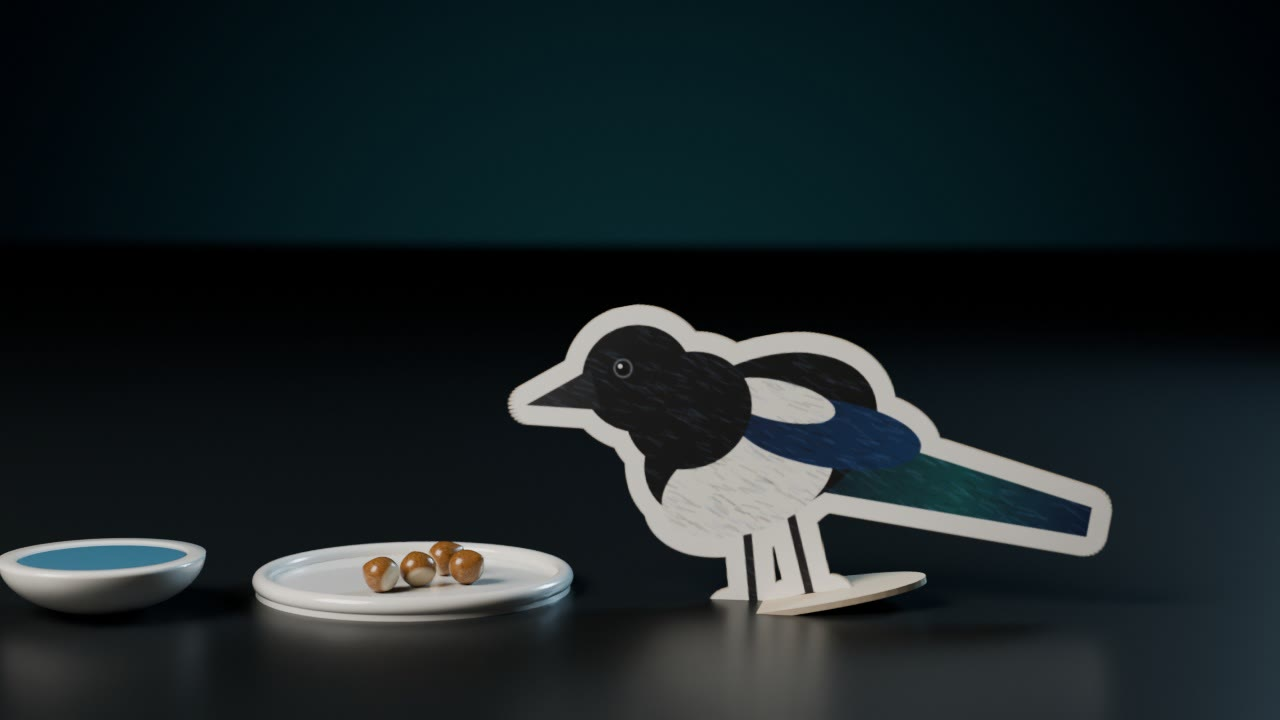
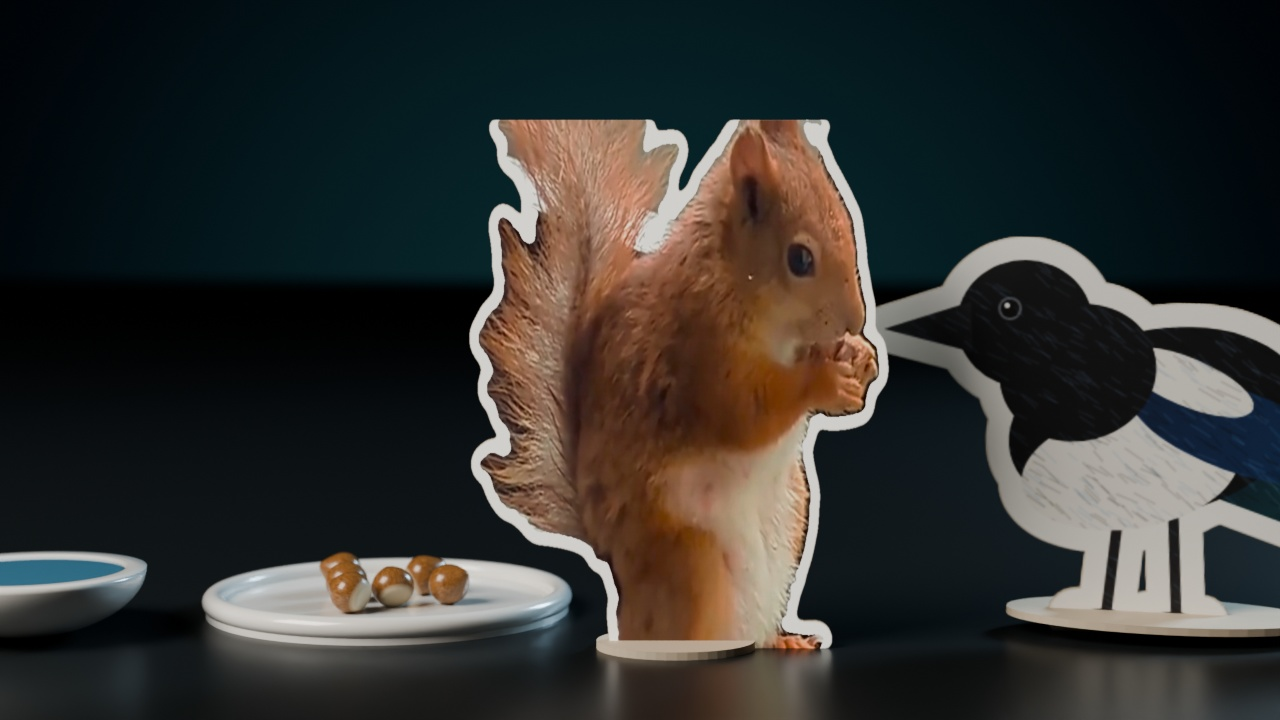
Trailern: Lennart stansas ut och blir kartongfigur, inga sus kvar
Övergången 1.4 -> 2.1 är ny. Bilden fryser, Lennart stansas ut med vit
kant och bakgrunden faller bort. Han står kvar som kartongfigur i 3D,
vänder sig när skatan kommer och hoppar undan bakom fatet. De sista
susen i ljudmixen är borttagna.

diff --git a/trailer/storyboard/storyboard.html b/trailer/storyboard/storyboard.html
@@ -133,7 +133,7 @@ td:first-child { color: var(--fg); white-space: nowrap; font-family: var(--mono)
 <div class="wrap">
 
 <header class="top">
-  <div class="eyebrow">Storyboard v12 · övergångar mellan scenerna</div>
+  <div class="eyebrow">Storyboard v13 · Lennart blir kartongfigur</div>
   <h1>Projekt <span>Lennart</span></h1>
   <p class="lead">En helt orimlig mängd teknik, redovisad med fullt allvar, för att en ekorre ska få äta sin nöt i fred.</p>
   <div class="facts">
@@ -394,10 +394,10 @@ const ACTS = [
   ['1.1','0:20','5,5 s','Balkongen i juli','a1_1','real','Etablera platsen och den nya grannen.','Uteplatsen en sommardag. Lennart springer längs räcket.','Mobilfilm beskuren till liggande. Svag inzoomning.','Mulet dagsljus.','Lennart rör sig längs räcket.','Rakt klipp i röstens paus.','"Men lite bakgrund först. I somras började en ekorre hälsa på hemma hos oss."','Sommarljud, lätt musik börjar.','PXL_20260702'],
   ['1.2','0:26','5 s','Nästan varje dag','a1_2','real','Visa att besöken blev vardag.','Tre stående rutor som dyker upp en i taget: soffryggen, knät, golvet.','Tre mobilklipp i höjdformat sida vid sida.','Blandat inomhusljus.','En ruta på "då och då", två till på "nästan varje dag".','Rakt klipp till närbilden.','"Först bara då och då, men numera dyker han upp nästan varje dag."','Ett mjukt klick per ruta.','PXL_20260708, 1000007512, VID-20261114'],
   ['1.3','0:31','3 s','Namnet','a1_3','real','Ge honom ett namn och ett ansikte.','Extrem närbild: han nosar på kameran. Namnskylt i skärmens stil.','Beskuren närbild med svag inzoomning.','Dagsljus från fönster.','Skylten tänds på "Lennart".','Rakt klipp.','"Vi gav honom namnet Lennart."','Ett klingande ljud när skylten tänds.','PXL_20260708 + grafik'],
-  ['1.4','0:34','8 s','Nötter och vatten','a1_4','real','Visa omsorgen. Sätta upp fatet som fåglarna snart tömmer.','Han sitter på någons ben och äter.','Beskuren till liggande, svag inzoomning.','Mjukt inomhusljus.','Han äter.','Bilden fryser och zoomar in på nöten i tassarna. Matchklipp till en 3D-hasselnöt på samma plats i bilden, som 2.1 backar ut från.','"Redan från första besöket har vi bjudit på nötter, och sen dess står det alltid käk och vatten utanför."','Knaprande.','1000007512'],
+  ['1.4','0:34','8 s','Nötter och vatten','a1_4','real','Visa omsorgen. Sätta upp fatet som fåglarna snart tömmer.','Han sitter på någons ben och äter.','Beskuren till liggande, svag inzoomning.','Mjukt inomhusljus.','Han äter.','Bilden fryser och Lennart stansas ut med en vit kant, som en dekal. Bakgrunden tippar bakåt och faller ur bild, och kvar står han som kartongfigur i den mörka 3D-scenen. Där börjar 2.1.','"Redan från första besöket har vi bjudit på nötter, och sen dess står det alltid käk och vatten utanför."','Knaprande.','1000007512'],
  ]],
  ['2 · Problemet och planen', '0:42–1:27', 'Ny version, v3: utan hus, med kamera i sladd och nötter som poppar upp. Arbetsröst fram till nejet. Den nya ja-repliken saknar röst.', [
-  ['2.1','0:42','5 s','Fåglarna','n1','cg','Berätta problemet i samma värld som lösningen.','En mörk scen. Ett vitt fat med hasselnötter, samma nötter som i husets magasin, och en skål med vatten bredvid. Skatan, en utstansad kartongfigur på fot, hoppar fram och tömmer fatet i tre hack.','Nära fatet, låg vinkel, långsam inåkning.','Varm nyckel från vänster, kall kant från höger, mot petroleumblå bakgrund.','Skatan hoppar in i tre hopp, pickar tre gånger, vänder som ett kort och hoppar ut.','Lennart hoppar in från samma håll.','"Problemet är bara att fåglarna också har upptäckt vår lilla uteservering,"','Lätta hopp, som kartong mot bord. Ett torrt ljud per nöt.','3D: dekalerna som kartongfigurer, hasselnötterna från öppningen'],
+  ['2.1','0:42','5 s','Fåglarna','n1','cg','Berätta problemet i samma värld som lösningen.','En mörk scen. Ett vitt fat med hasselnötter, samma nötter som i husets magasin, och en skål med vatten bredvid. Skatan, en utstansad kartongfigur på fot, hoppar fram och tömmer fatet i tre hack.','Börjar rakt framför den utstansade Lennart och glider bakåt till helbilden.','Varm nyckel från vänster, kall kant från höger, mot petroleumblå bakgrund.','Lennart, utstansad ur filmen, står vid fatet. Skatan hoppar in, Lennart vänder sig som ett kort och blir den ritade figuren, och hoppar undan bakom fatet. Skatan pickar tre gånger, vänder och hoppar ut.','Lennart hoppar in från samma håll.','"Problemet är bara att fåglarna också har upptäckt vår lilla uteservering,"','Lätta hopp, som kartong mot bord. Ett torrt ljud per nöt.','3D: dekalerna som kartongfigurer, hasselnötterna från öppningen'],
   ['2.2','0:47','5 s','Den länsade buffén','n2','cg','Stillheten efter.','Lennart, som kartongfigur, framför ett tomt fat och en skål med vatten. Han lutar sig fram, tittar, och sjunker ihop en aning.','Samma bild.','Samma ljus.','Tre hopp in, en lutning framåt, en liten suck bakåt.','Kameran börjar dra sig bakåt och uppåt.','"så ibland kommer stackars Lennart fram till en helt länsad buffé."','Tystnad. Ett litet ljud när han sjunker ihop.','3D'],
   ['2.3','0:52','10 s','Idén','n3','cg','Vändpunkten: från problem till plan.','Kameran backar till helbild. Fatet och vattenskålen ligger kvar. En liten kamera sänks ner i en sladd uppifrån, gungar till och blir hängande med linsen mot besökaren. Ett mjukt vitt moln växer fram uppe till höger. Lennart ser på.','Åkning bakåt och uppåt till en helbild som sedan ligger still.','Varm nyckel från vänster, kall kant från höger.','Kameran sänks på två sekunder och gungar ut. Molnet växer fram.','Lennart vänder och hoppar ut. Skatan hoppar in.','"Så ja, det är ju rätt uppenbart att vi har ett problem som behöver lösas. Jag tänkte: tänk om matstationen själv kunde se vem det är som kommer?"','Ett lätt gnissel när kameran sänks. En mjuk ton när molnet kommer.','3D. Kameran är en enkel, neutral kamera. Den riktiga kameramodulen presenteras i inköpen.'],
   ['2.4','1:02','11 s','Frågan till molnet','n4','cg','Förklara det enda systemet egentligen gör.','Skatan vid fatet. Kameran blixtrar. Bilden den tog flyger upp till molnet som ett litet lysande kort med en ljusstrimma efter sig. Molnet börjar pulsera i gult och en skylt fälls ut framför det: ÄR DET EN EKORRE?','Stilla helbild. Kameran till vänster, molnet uppe till höger, besökaren och fatet mellan dem.','Molnet lyser inifrån och färgar scenen svagt.','Blixt, bildkortet färdas, molnet pulserar, skylten poppar fram.','Molnet slår om till rött.','"Tanken är enkel. När någon kommer fram tar kameran en bild och skickar den till en AI i molnet, som får svara på en enda fråga: är det här en ekorre?"','Ett slutarklick. Ett mjukt svep när signalen går. Tre pip.','3D. Molnet är byggt av mjuka klot med platt undersida.'],
@@ -432,8 +432,8 @@ const ACTS = [
 // nr -> kort notering om vilken version filmen är
 const FILM = {
  "0.1": "Ny version, v5: skärmen har synliga pixlar.", "0.2": "Ur öppning v2, godkänd bild. Din provinspelning som röst.", "0.3": "Ny version, v5: magasinet fullt, tilt ner i slutet.", "0.4": "Ny version, v5: övergångar in och ut.", "0.5": "Ny version, v5: pixlar, punkter på pipen, inåkning i pixlarna.", "0.6": "Ny version: titeln i skärmens pixelrutnät.",
- "1.1": "Ur del 1 v1, klippt efter din inspelning.", "1.2": "Ur del 1 v1, klippt efter din inspelning.", "1.3": "Ur del 1 v3. Namnskylten kommer tidigare och ligger kvar in i nästa klipp.", "1.4": "Ur del 1, med frysning och inzoomning på nöten i slutet.",
- "2.1": "Ny version, v6: börjar tätt på en nöt.", "2.2": "Ur v3, oförändrad.", "2.3": "Ur v3, oförändrad.", "2.4": "Ur v3, oförändrad.", "2.5": "Ny version, v5: nej-signalen slår ner i fatet, som snurrar ut med ett porslinsklirr.", "2.6": "Ny version, v6: nötterna vilar, kameran lyfter i slutet.",
+ "1.1": "Ur del 1 v1, klippt efter din inspelning.", "1.2": "Ur del 1 v1, klippt efter din inspelning.", "1.3": "Ur del 1 v3. Namnskylten kommer tidigare och ligger kvar in i nästa klipp.", "1.4": "Ur del 1. Ny övergång i slutet: Lennart stansas ut ur bilden och bakgrunden faller bort.",
+ "2.1": "Ny version, v7: börjar på den utstansade Lennart, som vänder sig och hoppar undan för skatan.", "2.2": "Ur v3, oförändrad.", "2.3": "Ur v3, oförändrad.", "2.4": "Ur v3, oförändrad.", "2.5": "Ny version, v5: nej-signalen slår ner i fatet, som snurrar ut med ett porslinsklirr.", "2.6": "Ny version, v6: nötterna vilar, kameran lyfter i slutet.",
  "6.1": "Första renderingen, v1.", "6.2": "Första renderingen, v1.", "6.3": "Första renderingen, v1.", "3.1": "Ny version, v5: börjar uppifrån mörkret.", "3.2": "Ny version, v4: snabb panorering i slutet.",
  "4.1": "Ny version, v5: landar ur panoreringen.", "4.2": "Ny version, v5: in i rullens nav i slutet.", "5.2": "Platshållare: utskriftsväggen med dina tre stillbilder.", "5.3": "Platshållare: utskriftsväggen med dina tre stillbilder."
 };

diff --git a/trailer/film/akt_plan.py b/trailer/film/akt_plan.py
@@ -91,6 +91,34 @@ def standee(name, png, h, sink):
     return e
 BIRD = standee('skata', 'dekal-skata.png', 0.3, 0.135); SQ = standee('lennart', 'dekal-lennart.png', 0.22, 0.085)
 
+# ---------- overgangen in fran 1.4: den riktiga Lennart, utstansad ur sista bildrutan (verktyg/utstansning.py), star som kartongfigur i scenen ----------
+# Kameran borjar vinkelratt mot figuren pa precis det avstand dar bilden fyller rutan, sa forsta bildrutan ar samma bild som sista rutan i 1.4.
+import numpy as np
+FOTO_H = 0.20; FOTO_W = FOTO_H * 16 / 9; FOTO_LINS = 60.0; FOTO_TID = dict(vand=1.2, hopp=1.45)
+_m = np.load(os.path.join(HERE, 'utstansning.npz'))['inre']; FOTO_U = float(np.nonzero(_m)[1].mean()) / _m.shape[1]   # ekorrens mitt i sidled, 0..1
+FOTO_D = Vector((0.31 - 0.47, -0.14 + 1.12, 0)).normalized()               # samma riktning som kamerans helbild
+FOTO_PHI = math.atan2(-FOTO_D.x, FOTO_D.y); FOTO_R = Vector((math.cos(FOTO_PHI), math.sin(FOTO_PHI), 0))
+FOTO_P = Vector((0.33, -0.2, GROUND))                                       # dar ekorren star (mitten av ekorren, pa golvet)
+FOTO_MID = FOTO_P + FOTO_R * ((0.5 - FOTO_U) * FOTO_W) + Vector((0, 0, FOTO_H / 2))   # mitten av bilden
+FOTO_EYE = FOTO_MID - FOTO_D * (FOTO_W * FOTO_LINS / 36.0)
+def foto_figur(name, png, w, h, uc, sq_h):
+    e = link(bpy.data.objects.new(name, None)); img = bpy.data.images.load(os.path.join(HERE, png))
+    def layer_mat(front):
+        m = bpy.data.materials.new(name + ('_f' if front else '_k')); m.use_nodes = True; n2 = m.node_tree; p = n2.nodes['Principled BSDF']; t = n2.nodes.new('ShaderNodeTexImage'); t.image = img; t.extension = 'CLIP'
+        n2.links.new(t.outputs['Alpha'], p.inputs['Alpha']); p.inputs['Roughness'].default_value = 0.55
+        if front: n2.links.new(t.outputs['Color'], p.inputs['Base Color']); n2.links.new(t.outputs['Color'], p.inputs['Emission Color']); p.inputs['Emission Strength'].default_value = FOTO_EMIT
+        else: p.inputs['Base Color'].default_value = (0.62, 0.52, 0.4, 1)
+        return m
+    mf, mk = layer_mat(True), layer_mat(False)
+    for i in range(6):
+        me = bpy.data.meshes.new('fq'); x0 = -uc * w; me.from_pydata([(x0, 0, 0), (x0 + w, 0, 0), (x0 + w, 0, h), (x0, 0, h)], [], [(0, 1, 2, 3)]); me.uv_layers.new()
+        for j, c in enumerate([(0, 0), (1, 0), (1, 1), (0, 1)]): me.uv_layers[0].data[j].uv = c
+        me.materials.append(mf if i == 0 else mk); o = link(bpy.data.objects.new(name + str(i), me)); o.location = (0, 0.0006 * i, 0); o.parent = e
+    bpy.ops.mesh.primitive_cylinder_add(vertices=48, radius=1, depth=1, location=(0, 0.0015, 0.0015)); b = bpy.context.active_object; b.scale = (sq_h * 0.2, sq_h * 0.11, 0.003); b.data.materials.append(mat(name + '_fot', (0.62, 0.52, 0.4), 0.7)); b.parent = e
+    return e
+FOTO_EMIT = 0.6
+FOTO = foto_figur('lennart_foto', 'lennart-utstansad.png', FOTO_W, FOTO_H, FOTO_U, 0.22)
+
 # ---------- fatet och hasselnotterna ----------
 PLATE = link(bpy.data.objects.new('fat', None)); PLATE.location = (0.2, -0.14, GROUND); cer = mat('porslin', (0.86, 0.85, 0.82), 0.25, coat=0.6)
 bpy.ops.mesh.primitive_cylinder_add(vertices=96, radius=0.075, depth=0.005, location=(0, 0, 0.0025)); o = bpy.context.active_object; o.data.materials.append(cer); o.parent = PLATE
@@ -239,6 +267,17 @@ def state(t):
         x, z, ln_ = hops(t, T['sq2_in'], [0.98, 0.78, 0.6, 0.44]); face = 1
         if t >= T['sq_bowl']: x, z, ln_ = hops(t, T['sq_bowl'], [0.44, 0.39, 0.345], 0.3, 0.06, 0.035); ln_ += -0.16 * sm(t, T['sq_bowl'] + 0.8, T['sq_bowl'] + 1.3)
     place(SQ, x, -0.14, z, ln_, face)
+    # i borjan: den utstansade Lennart star vid fatet, ser skatan komma, vander sig (bilden blir den ritade figuren) och hoppar undan at vanster
+    v0, h0 = FOTO_TID['vand'], FOTO_TID['hopp']; c_ = math.cos(math.pi * sm(t, v0, v0 + 0.24))
+    FOTO.location = FOTO_P; FOTO.rotation_euler = (0, 0.05 * pulse(t, 0.88, 0.34), FOTO_PHI); FOTO.scale = (max(c_, 0.0), 1, 1)
+    for o_ in [FOTO] + list(FOTO.children): o_.hide_render = c_ <= 0 or t > h0
+    if t < h0 + 1.1:
+        pts = [FOTO_P, Vector((0.24, -0.06, GROUND)), Vector((0.08, -0.04, GROUND)), Vector((-0.2, -0.03, GROUND))]   # bakom fatet och skalen, ut till vanster
+        k_, z, ln_ = hops(t, h0, [0.0, 1.0, 2.0, 3.0], 0.3, 0.05); i_ = min(int(k_), 2); p_ = pts[i_].lerp(pts[i_ + 1], k_ - i_)
+        place(SQ, p_.x, p_.y, z, -ln_, max(-c_, 0.0)); SQ.rotation_euler.z = FOTO_PHI * (1 - sm(t, h0, h0 + 0.5))
+        for o_ in [SQ] + list(SQ.children): o_.hide_render = c_ > 0
+    else:
+        for o_ in [SQ] + list(SQ.children): o_.hide_render = False
     # molnet, fragan och signalen
     think = (T['up1'][1] - 0.15 <= t < T['no']) or (T['up2'][1] - 0.15 <= t < T['yes'])
     if t >= T['yes']: col, es = (0.25, 0.95, 0.5), 0.35 + 1.0 * (1 - sm(t, T['yes'], T['yes'] + 1.5)) + 0.25
@@ -273,14 +312,14 @@ def state(t):
     wide = sm(t, 9.8, 15.6); close = sm(t, 40.3, END - 0.2)
     eye = mix(mix((0.47, -1.12, 0.16), (0.32, -1.52, 0.27), wide), (0.31, -0.84, 0.2), close) + Vector((0.05 * t / END, 0, 0))
     tgt = mix(mix((0.31, -0.14, 0.075), (0.24, -0.05, 0.165), wide), (0.27, -0.14, 0.06), close)
-    # overgang in: matchklipp pa notten. Kameran borjar 14 cm fran den framsta notten (som fyller ungefar en femtedel av bildbredden, som tassarna i 1.4) och backar ut
-    if t < 1.9:
-        nut = Vector((NUT_REST[5][0], NUT_REST[5][1], GROUND + NUT_REST[5][3])); pb = sm(t, 0.0, 1.9); dv = eye - nut; d_ = 0.14 * (dv.length / 0.14) ** pb
-        eye = nut + dv.normalized() * d_; tgt = mix(nut, tgt, pb)
+    # overgang in: kameran borjar vinkelratt mot den utstansade Lennart (bilden fyller rutan som i 1.4) och glider ut till helbilden
+    fok = None
+    if t < 2.2:
+        pb = sm(t, 0.0, 2.2); eye = mix(FOTO_EYE, eye, pb); tgt = mix(FOTO_MID, tgt, pb); fok = mix(FOTO_MID, tgt, sm(t, 1.2, 2.2))
     # overgang ut: kameran lyfter och tittar upp forbi molnet, ut i det tomma morkret (3.1 fortsatter nerat mot Claude-fonstret)
     up = sm(t, END - 1.35, END) ** 1.4; tgt0 = tgt.copy()     # skarpan stannar pa fatet medan kameran tittar upp
     if up > 0: eye = eye + Vector((0, -0.08, 0.22)) * up; tgt = tgt + Vector((0.1, 0.25, 1.1)) * up
-    CAM.location = eye; CAM.rotation_euler = (tgt - eye).to_track_quat('-Z', 'Y').to_euler(); cam_d.lens = 60 - 5 * wide; cam_d.dof.aperture_fstop = 5.6; cam_d.dof.focus_distance = (tgt0 - eye).length
+    CAM.location = eye; CAM.rotation_euler = (tgt - eye).to_track_quat('-Z', 'Y').to_euler(); cam_d.lens = 60 - 5 * wide; cam_d.dof.aperture_fstop = 5.6; cam_d.dof.focus_distance = ((fok if fok is not None else tgt0) - eye).length
 
 frames = sorted({round(t * FPS) for t in TIMES}) if TIMES else range(int(END * FPS))
 for f in frames:

diff --git a/trailer/film/verktyg/utstansning.py b/trailer/film/verktyg/utstansning.py
@@ -1,0 +1,55 @@
+# Stansar ut Lennart ur sista bildrutan i klipp 1.4, som en dekal med vit kant.
+# Ger film/lennart-utstansad.png (RGBA, 1280x720) som anvands som kartongfigur i akt_plan.py, och masker till overgangen (overgang_14.py).
+# Kor med Blenders python (har numpy):  python utstansning.py [bildruta]
+import os, sys, subprocess, numpy as np
+HERE = os.path.dirname(os.path.abspath(__file__)); FILM = os.path.dirname(HERE)
+W, H = 1280, 720; RUTA = int(sys.argv[1]) if __name__ == '__main__' and len(sys.argv) > 1 else 184; KANT = 18
+
+def las(ruta):
+    r = subprocess.run(['ffmpeg', '-v', 'error', '-i', os.path.join(FILM, 'klipp_1_4_original.mp4'), '-vf', 'select=eq(n\\,%d),scale=%d:%d:flags=lanczos' % (ruta, W, H),
+                        '-frames:v', '1', '-f', 'rawvideo', '-pix_fmt', 'rgb24', '-'], capture_output=True, check=True)
+    return np.frombuffer(r.stdout, np.uint8).reshape(H, W, 3).astype(np.float32)
+
+def falt(m, k):   # faltning med FFT, samma storlek
+    pad = np.zeros((H + 2 * 64, W + 2 * 64), np.float32); pad[64:64 + H, 64:64 + W] = m
+    K = np.zeros_like(pad); kh, kw = k.shape; K[:kh, :kw] = k; K = np.roll(K, (-(kh // 2), -(kw // 2)), (0, 1))
+    return np.real(np.fft.irfft2(np.fft.rfft2(pad) * np.fft.rfft2(K), pad.shape))[64:64 + H, 64:64 + W]
+def skiva(r): y, x = np.mgrid[-r:r + 1, -r:r + 1]; return (x * x + y * y <= r * r).astype(np.float32)
+def gauss(s): r = int(3 * s); y, x = np.mgrid[-r:r + 1, -r:r + 1]; g = np.exp(-(x * x + y * y) / (2 * s * s)); return (g / g.sum()).astype(np.float32)
+def vidga(m, r): return falt(m.astype(np.float32), skiva(r)) > 0.5
+def krymp(m, r): return ~vidga(~m, r)
+def mjuk(m, s): return falt(m.astype(np.float32), gauss(s)) > 0.5
+def sammanhang(m, fro):   # allt i m som hanger ihop med fro (geodetisk utvidgning)
+    s = fro & m
+    while True:
+        n = m & (s | np.roll(s, 1, 0) | np.roll(s, -1, 0) | np.roll(s, 1, 1) | np.roll(s, -1, 1))
+        if (n == s).all(): return s
+        s = n
+
+def utstansa(img):
+    r, g, b = img[..., 0], img[..., 1], img[..., 2]; lum = 0.3 * r + 0.59 * g + 0.11 * b
+    varm = (r - b > 22) & (r > g - 4)                                  # pals: rod-orange till brun
+    vit = (lum > 150) & (r - b > 4) & (r >= g - 6)                     # magen: ljus och svagt varm (platen och himlen ar kalla)
+    m = varm | vit
+    m = krymp(vidga(m, 3), 3)                                          # stang sma hal
+    fro = np.zeros_like(m); fro[330:470, 600:760] = True                 # mitt i kroppen
+    m = sammanhang(krymp(m, 2), fro); m = vidga(m, 2) & (varm | vit | vidga(m, 1))
+    kant = np.zeros_like(m); kant[0, :] = kant[-1, :] = True; kant[:, 0] = kant[:, -1] = True
+    m = ~sammanhang(~m, kant & ~m)                                       # fyll hal som inte nar kanten (ogat)
+    m = m & ~((r - b < 8) & (lum > 95))                                  # men inte ljus kall bakgrund som blev innesluten mellan svansen och huvudet
+    m = sammanhang(mjuk(krymp(vidga(m, 6), 6), 2.5), fro)               # jamn kontur, en enda bit
+    return m
+
+if __name__ == '__main__':
+    img = las(RUTA); inre = utstansa(img)
+    yttre = mjuk(vidga(inre, KANT), 7)
+    np.savez_compressed(os.path.join(FILM, 'utstansning.npz'), inre=inre, yttre=yttre, ruta=RUTA)
+    papper = np.array([246, 243, 236], np.float32)
+    rgba = np.zeros((H, W, 4), np.float32); rgba[..., :3] = np.where(inre[..., None], img, papper); rgba[..., 3] = 255 * yttre
+    # mjuk kant pa alfa sa att stansningen inte blir taggig
+    a = falt(yttre.astype(np.float32), gauss(0.8)); rgba[..., 3] = 255 * np.clip(a, 0, 1)
+    ut = os.path.join(FILM, 'lennart-utstansad.png')
+    subprocess.run(['ffmpeg', '-v', 'error', '-y', '-f', 'rawvideo', '-pix_fmt', 'rgba', '-s', '%dx%d' % (W, H), '-i', '-', ut], input=rgba.astype(np.uint8).tobytes(), check=True)
+    prov = np.where(yttre[..., None], rgba[..., :3], img * 0.25 + np.array([0, 40, 60]) * 0.75)
+    subprocess.run(['ffmpeg', '-v', 'error', '-y', '-f', 'rawvideo', '-pix_fmt', 'rgb24', '-s', '%dx%d' % (W, H), '-i', '-', os.path.join(FILM, 'utstansning_prov.jpg')], input=prov.astype(np.uint8).tobytes(), check=True)
+    print('klar', ut, 'andel', round(float(inre.mean()), 3))

diff --git a/trailer/film/verktyg/overgang_14.py b/trailer/film/verktyg/overgang_14.py
@@ -1,0 +1,44 @@
+# Overgangen 1.4 -> 2.1: bilden fryser, Lennart stansas ut med vit kant, och bakgrunden faller bakat och ner ur bild.
+# Bakom den syns 3D-scenen, precis som forsta bildrutan i 2.1, dar den utstansade Lennart star som kartongfigur.
+# Kor med Blenders python:  python overgang_14.py <forsta bildrutan i 2.1 (jpg)> <ut-mapp>
+import os, sys, subprocess, numpy as np
+import utstansning as u
+W, H = u.W, u.H; N = 20                                     # 20 rutor = 0,8 s, sista delen av klipp 1.4
+def las_bild(p):
+    r = subprocess.run(['ffmpeg', '-v', 'error', '-i', p, '-vf', 'scale=%d:%d' % (W, H), '-f', 'rawvideo', '-pix_fmt', 'rgb24', '-'], capture_output=True, check=True)
+    return np.frombuffer(r.stdout, np.uint8).reshape(H, W, 3).astype(np.float32)
+def sm(x, a, b): x = min(1.0, max(0.0, (x - a) / (b - a))); return x * x * (3 - 2 * x)
+
+d = np.load(os.path.join(u.FILM, 'utstansning.npz')); inre, yttre = d['inre'], d['yttre']
+fot = u.las(int(d['ruta'])); ren = las_bild(sys.argv[1]); OUT = sys.argv[2]; os.makedirs(OUT, exist_ok=True)
+papper = np.median(ren[yttre & ~u.vidga(inre, 6)], axis=0)            # kantens farg som den blir i 3D
+yy, xx = np.mgrid[0:H, 0:W].astype(np.float32); F = 1.3 * W
+
+def bilinjar(img, xs, ys):
+    x0 = np.clip(np.floor(xs).astype(int), 0, W - 2); y0 = np.clip(np.floor(ys).astype(int), 0, H - 2); fx = np.clip(xs - x0, 0, 1)[..., None]; fy = np.clip(ys - y0, 0, 1)[..., None]
+    return (img[y0, x0] * (1 - fx) + img[y0, x0 + 1] * fx) * (1 - fy) + (img[y0 + 1, x0] * (1 - fx) + img[y0 + 1, x0 + 1] * fx) * fy
+
+for k in range(N):
+    # 1. kanten vaxer ut runt ekorren (rutor 0-6)
+    g = 1 - (1 - min(1.0, k / 6.0)) ** 3; r = 18 * g
+    ytt = yttre if g >= 1 else (u.mjuk(u.vidga(inre, max(1, int(round(r)))), max(0.6, 7 * g)) if r >= 1 else inre.copy())
+    ytt = (ytt & yttre) | inre
+    # 2. bakgrunden (bilden utanfor kanten) tippar bakat runt underkanten och faller ner ur bild (rutor 3-18)
+    f = min(1.0, max(0.0, (k - 3) / 15.0)); th = np.radians(82) * f ** 2; drop = 0.95 * H * f ** 2.3; Hp = H + drop
+    den = F * np.cos(th) - (Hp - yy) * np.sin(th); ok = den > 1e-3
+    Y = np.where(ok, (Hp - yy) * F / np.where(ok, den, 1), -1); X = (xx - W / 2) * (F + Y * np.sin(th)) / F
+    xs, ys = X + W / 2, H - Y; inne = ok & (Y >= 0) & (Y <= H) & (xs >= 0) & (xs <= W - 1)
+    hal = u.falt(ytt.astype(np.float32), u.gauss(0.7))                           # halet i bakgrunden dar ekorren satt
+    a_bg = np.where(inne, 1 - bilinjar(hal[..., None], xs, ys)[..., 0], 0)[..., None]
+    bg = bilinjar(fot, xs, ys) * (1 - 0.55 * f)                                    # mörknar nar den faller bort fran ljuset
+    # 3. ekorren byter over till hur den ser ut i 3D (sista rutorna, samma bild, bara ljuset)
+    w = sm(k, 11, N - 1); djur = fot * (1 - w) + ren * w
+    kant = papper * (1 - w) + ren * w
+    a_s = u.falt(ytt.astype(np.float32), u.gauss(0.7))[..., None]; a_i = u.falt(inre.astype(np.float32), u.gauss(0.6))[..., None]
+    figur = djur * a_i + kant * (1 - a_i)
+    bild = ren * (1 - a_bg) + bg * a_bg
+    bild = bild * (1 - a_s) + figur * a_s
+    if k == N - 1: bild = ren                                                     # sista rutan = forsta rutan i 2.1
+    subprocess.run(['ffmpeg', '-v', 'error', '-y', '-f', 'rawvideo', '-pix_fmt', 'rgb24', '-s', '%dx%d' % (W, H), '-i', '-', '-q:v', '2', os.path.join(OUT, '%02d.jpg' % k)],
+                   input=np.clip(bild, 0, 255).astype(np.uint8).tobytes(), check=True)
+    print('ruta', k, flush=True)

diff --git a/trailer/film/verktyg/utstansning_kalibrera.py b/trailer/film/verktyg/utstansning_kalibrera.py
@@ -1,0 +1,29 @@
+# Stammer av fargen pa den utstansade Lennart i 3D mot den riktiga bildrutan.
+# Jamfor forsta bildrutan i 2.1 (renderad) med bildrutan i 1.4, kanal for kanal, och skriver om lennart-utstansad.png sa att renderingen hamnar pa filmens farger.
+# Kor:  python utstansning_kalibrera.py <renderad 0000.jpg>
+import os, sys, subprocess, numpy as np
+import utstansning as u
+FILM = u.FILM; W, H = u.W, u.H
+def las_bild(p):
+    r = subprocess.run(['ffmpeg', '-v', 'error', '-i', p, '-vf', 'scale=%d:%d' % (W, H), '-f', 'rawvideo', '-pix_fmt', 'rgba' if p.endswith('.png') else 'rgb24', '-'], capture_output=True, check=True)
+    return np.frombuffer(r.stdout, np.uint8).reshape(H, W, -1).astype(np.float32)
+d = np.load(os.path.join(FILM, 'utstansning.npz')); inre = d['inre']; kar = u.krymp(inre, 4)
+fot = u.las(int(d['ruta'])); ren = las_bild(sys.argv[1]); tex = las_bild(os.path.join(FILM, 'lennart-utstansad.png'))
+ny = tex.copy(); fel = []
+for c in range(3):
+    t_, r_, f_ = tex[..., c][kar], ren[..., c][kar], fot[..., c][kar]
+    # renderingen som funktion av texturen: medianen per texturniva, gjord stigande
+    bins = np.linspace(0, 255, 33); mid = (bins[:-1] + bins[1:]) / 2; ut = np.full(32, np.nan)
+    for i in range(32):
+        s = (t_ >= bins[i]) & (t_ < bins[i + 1])
+        if s.sum() > 30: ut[i] = np.median(r_[s])
+    ok = ~np.isnan(ut); x, y = mid[ok], np.maximum.accumulate(ut[ok])
+    y = y + np.arange(len(y)) * 1e-3                                    # strikt stigande
+    # vilken texturniva ger filmens niva? (invers av kurvan)
+    x, y = np.concatenate([[0.0], x, [255.0]]), np.concatenate([[min(0.0, y[0] - 1)], y, [max(255.0, y[-1] + 1)]])
+    inv = np.interp(fot[..., c], y, x)
+    ny[..., c] = np.where(inre, np.clip(inv, 0, 255), tex[..., c])
+    fel.append(float(np.abs(r_ - f_).mean()))
+print('medelfel per kanal fore:', [round(e, 1) for e in fel])
+subprocess.run(['ffmpeg', '-v', 'error', '-y', '-f', 'rawvideo', '-pix_fmt', 'rgba', '-s', '%dx%d' % (W, H), '-i', '-', os.path.join(FILM, 'lennart-utstansad.png')], input=ny.astype(np.uint8).tobytes(), check=True)
+print('skrev om lennart-utstansad.png')

diff --git a/trailer/film/verktyg/effekter.py b/trailer/film/verktyg/effekter.py
@@ -18,6 +18,9 @@ def tick(p=1.0, **k): t = tt(0.012); return np.sin(2 * np.pi * 3200 * p * t) * n
 def duns(p=1.0, **k): t = tt(0.3); return np.sin(2 * np.pi * (75 * p) * t * (1 + 0.6 * np.exp(-t * 40))) * np.exp(-t * 16) + 0.25 * hp(rng.normal(0, 1, len(t)), 800) * np.exp(-t * 180)
 def knack(p=1.0, **k): t = tt(0.09); return (np.sin(2 * np.pi * 420 * p * t) + 0.6 * np.sin(2 * np.pi * 930 * p * t) + 0.3 * np.sin(2 * np.pi * 1710 * p * t)) * np.exp(-t * 70)
 def pop(p=1.0, **k): t = tt(0.09); f = 320 * p * (1 + 2.2 * t / 0.09); return np.sin(2 * np.pi * np.cumsum(f) / SR) * np.exp(-t * 38) * np.minimum(1, t / 0.002)
+def stans(p=1.0, **k):     # en stans genom kartong: ett torrt klipp och en liten duns i kroppen
+    t = tt(0.16); brus = rng.normal(0, 1, len(t))
+    return 0.8 * lp(hp(brus, 1800), 6500) * np.exp(-t * 160) + 0.7 * np.sin(2 * np.pi * 150 * p * t * (1 + 0.4 * np.exp(-t * 60))) * np.exp(-t * 30) + 0.3 * lp(hp(brus, 400), 1500) * np.exp(-t * 60)
 def svep(p=1.0, dur=1.0, **k):       # mjukt sus som stiger i ton
     t = tt(dur); x = rng.normal(0, 1, len(t)); u = t / dur; f = 500 * p * (1 + 3.5 * u); ph = np.cumsum(f) / SR
     return (lp(hp(x, 300), 2500 * p) * 0.9 + 0.25 * np.sin(2 * np.pi * ph)) * np.sin(np.pi * u) ** 1.5
@@ -39,7 +42,7 @@ def tallrik(p=1.0, dur=1.4, **k):   # ett porslinsfat som snurrar ut som ett myn
         y[i0:] += amp * part * (0.75 + 0.5 * rng.random())
     hum = lp(rng.normal(0, 1, len(t)), 900) * np.minimum(1, t / 0.05) * np.clip(1 - t / dur, 0, 1) ** 1.6 * 0.08   # mycket svagt rullande sus under (starkare lat blasigt)
     return y + hum
-S = dict(tallrik=tallrik, pip=pip, klick=klick, tick=tick, duns=duns, knack=knack, pop=pop, svep=svep, slutare=slutare, nej=nej, ja=ja, klang=klang, servo=servo)
+S = dict(tallrik=tallrik, pip=pip, klick=klick, tick=tick, duns=duns, knack=knack, pop=pop, stans=stans, svep=svep, slutare=slutare, nej=nej, ja=ja, klang=klang, servo=servo)
 import os
 FXD = sys.argv[4] if len(sys.argv) > 4 else ''
 def fil(name):      # inspelat ljud (wav, mono, 48 kHz) ur mappen fx

diff --git a/trailer/film/LAGE.md b/trailer/film/LAGE.md
@@ -18,8 +18,8 @@ Senast uppdaterad 2026-11-16. Skriven för att arbetet ska kunna fortsätta på 
 | Del | Innehåll | Läge |
 |---|---|---|
 | 0 Öppningen | Skärmen, gluggen, nötens väg, 48 delar, VERIFIERAR, titeln | Klar. Fullt nötmagasin, pixlar på skärmen, punkterna tänds på pipen. |
-| 1 Lennart | Riktiga mobilklipp | Klar. Klipp 1.4 fryser och zoomar in på nöten i slutet. |
-| 2 Problemet och planen | Fat, skata, kamera i sladd, moln, ja och nej | Klar. Fatet snurrar vid nej, nötterna vilar på riktigt. |
+| 1 Lennart | Riktiga mobilklipp | Klar. Klipp 1.4 slutar med att Lennart stansas ut ur bilden. |
+| 2 Problemet och planen | Fat, skata, kamera i sladd, moln, ja och nej | Klar. Börjar med den utstansade Lennart, fatet snurrar vid nej, nötterna vilar på riktigt. |
 | 3 Designen | Claude-fönstret ritar huset, huset reser sig | Klar |
 | 4 Inköpen | Komponenterna på blå yta, filamentet | Klar |
 | 5 Utskriften | Slicern (5.1) och utskriftsväggen (5.2–5.3) | 5.1 är en stillbild. Väggen visar platshållare tills de riktiga timelapse-klippen finns. |
@@ -33,7 +33,7 @@ Senast uppdaterad 2026-11-16. Skriven för att arbetet ska kunna fortsätta på 
 | 0.3 → 0.4 | Snabb tilt nerför skålen, 0.4 börjar med en tilt upp från golvet |
 | 0.4 → 0.5 | Genom ramen: kameran åker ner genom skärmramens öppning på golvet, 0.5 backar ut ur den släckta skärmen som tänds |
 | 0.5 → 0.6 | In i skärmens pixlar, titeln tänds i samma rutnät (`verktyg/titel.py`) |
-| 1.4 → 2.1 | Matchklipp: nöten i tassarna blir en 3D-hasselnöt på samma plats i bilden |
+| 1.4 → 2.1 | Lennart stansas ut ur sista bildrutan med vit kant och bakgrunden faller bort. Han står kvar som kartongfigur i 3D, vänder sig och blir den ritade figuren när skatan kommer (`verktyg/utstansning.py`, `verktyg/overgang_14.py`) |
 | 2.6 → 3.1 | Kameran tittar upp förbi molnet, 3.1 kommer uppifrån ner mot fönstret |
 | 3.2 → 4.1 | Snabb panorering, gjord i efterhand på bildrutorna |
 | 4.2 → 5.1 | In i filamentrullens svarta nav |
@@ -58,5 +58,6 @@ Senast uppdaterad 2026-11-16. Skriven för att arbetet ska kunna fortsätta på 
 - **Rösten:** `verktyg/rost.py` jämnar ut nivån fras för fras och sänker andetag. Sedan `ljud/rostkedja.txt` i ffmpeg: klickborttagning, EQ, de-esser, multibandkompressor, kompressorer, lätt mättnad och limiter. Rösten ligger runt −19 LUFS och mixen runt −15 LUFS.
 - **Musiken:** viker i mellanregistret när rösten talar (`sidechaincompress` per band).
 - **Effekterna:** syntetiseras i `verktyg/effekter.py`, eller hämtas ur Kenneys ljudpaket (CC0). Tiderna står i `FX` i `ljudmix.mjs`, räknat från varje klipps början.
+- **Utstansningen i 1.4:** `verktyg/utstansning.py` tar fram masken ur bildruta 184 (pälsens varma färg), `verktyg/utstansning_kalibrera.py` justerar färgerna så att kartongfiguren i 3D ser ut som filmrutan, och `verktyg/overgang_14.py` bygger de sista 20 rutorna i 1.4 ovanpå första rutan i 2.1. Ändras början av 2.1 ska de tre köras om i den ordningen.
 - **Nötterna:** platserna räknas fram mot modellens riktiga form (`verktyg/notmagasin.py`, `verktyg/notfat.py`).
 - **Bildrutor:** när bara en del av en scen ändras renderas bara de bildrutorna om. Bildrutorna finns inte i repot, så ta fram de övriga ur scenens mp4 med `ffmpeg -i "Lennart - del 3 designen v5.mp4" ut/%04d.jpg` först.

diff --git a/TOKENS.md b/TOKENS.md
@@ -19,7 +19,7 @@ Metoden anger hur siffran togs fram: *exakt* (avläst i verktyget) eller *uppska
 | 2026-11-15 (kväll, livebild) | Publik livebild på lennart.cam (bilder bara när någon tittar), adminvy bakom inloggning med inställningar och av-knapp, Pi-appen skickar 640 × 360 i 2 bilder/s. Testat lokalt och mot riktiga lennart.cam. | ca 5–10 miljoner in, ca 0,08 miljoner ut [osäkert] | Uppskattat: ca 40 modellanrop × 130 000–240 000 tokens kontext. Ut uppskattat ur mängden skriven kod och text. | 0 | Ingen lokal modell användes |
 | 2026-11-15 (kväll, admin) | Felsökning av inloggningen i adminvyn: tolerans för mellanslag och citattecken, fingeravtryck i loggen, test i riktig webbläsare, besökarens adress bakom Cloudflare | ca 3–6 miljoner in, ca 0,03 miljoner ut [osäkert] | Uppskattat: ca 20 modellanrop × 150 000–260 000 tokens kontext | 0 | Ingen lokal modell användes |
 | 2026-11-15 (kväll, rotation och servon) | Kamerans rotation och servostyrning i adminvyn: kommandon och inställningar via Pi:ns väntande anrop, egen drivrutin för PCA9685, kopplingsguide för servona, rättning av dolda bilder i stilmallen. Testat med låtsashårdvara och i Chromium. | ca 6–12 miljoner in, ca 0,1 miljoner ut [osäkert] | Uppskattat: ca 40 modellanrop × 160 000–280 000 tokens kontext. Ut uppskattat ur mängden skriven kod och text. | 0 | Ingen lokal modell användes |
-| 2026-11-14 – 2026-11-16 | Trailern, Claude Code i Claude-appen på Windows (lokal session): storyboard, alla 3D-scener i Blender, Marcus röst bearbetad och lagd mot klippen, musik och ljudeffekter, övergångar, flytt av filmprojektet till repot | ca 171,8 miljoner in, varav 169,9 miljoner cacheläsning och 1,9 miljoner cacheskrivning, och 0,82 miljoner ut | Exakt ur sessionsloggen fram till 2026-11-16 01.01 UTC: summan av `usage`-fälten för 574 modellanrop (Claude Fable 5.2 och Claude Opus 5.5), räknat en gång per svar. Arbetet efter den tidpunkten ingår inte. | ej räknat | Whisper medium kördes lokalt för att skriva ut rösten (ca 2,5 minuter ljud). Whisper räknar inte tokens på samma sätt, och antalet loggades inte. |
+| 2026-11-14 – 2026-11-16 | Trailern, Claude Code i Claude-appen på Windows (lokal session): storyboard, alla 3D-scener i Blender, Marcus röst bearbetad och lagd mot klippen, musik och ljudeffekter, övergångar, flytt av filmprojektet till repot, Lennart som utstansad kartongfigur | ca 213,5 miljoner in, varav 211,3 miljoner cacheläsning och 2,2 miljoner cacheskrivning, och 0,96 miljoner ut | Exakt ur sessionsloggen fram till 2026-11-16 08.09 UTC: summan av `usage`-fälten för 703 modellanrop (Claude Fable 5.2 och Claude Opus 5.5), räknat en gång per svar. Arbetet efter den tidpunkten ingår inte. | ej räknat | Whisper medium kördes lokalt för att skriva ut rösten (ca 2,5 minuter ljud). Whisper räknar inte tokens på samma sätt, och antalet loggades inte. |
 | 2026-11-15 | Kort Claude Code-session i samma mapp: försök att snygga till en timelapse av utskriften med Higgsfield [verifiera vad som blev gjort] | ca 7,0 miljoner in, varav 6,9 miljoner cacheläsning, och 0,03 miljoner ut | Exakt ur sessionsloggen: summan av `usage`-fälten för 50 modellanrop (Claude Opus 5.5) | 0 | Ingen lokal modell användes |
 
 ## Utanför tokenräkningen

diff --git a/KALLOR.md b/KALLOR.md
@@ -103,6 +103,7 @@ Allt som bidraget bygger på och som inte är Marcus eget arbete. Lägg till en 
 | Musiken "System Online" | `trailer/System Online.mp3` | Gjord av Marcus i Suno. Licens för spridning beror på abonnemanget [verifiera]. |
 | Claude-logotypen i trailerns del 3 | Ritad i `trailer/film/akt_design.py` | Egen tolkning av Anthropics logotyp, ritad i kod. Om logotypen får användas så [verifiera]. |
 | Videoklipp på Lennart | `trailer/PXL_*.mp4`, `trailer/1000007512.mp4`, `trailer/VID-20261114-WA0000~3.mp4` | Marcus mobilklipp. VID-klippet kom via WhatsApp, vem som filmade det [verifiera]. Marcus är den enda personen i bild. |
+| Den utstansade Lennart (kartongfiguren i början av del 2) | `trailer/film/lennart-utstansad.png` | Bildruta 184 ur `trailer/1000007512.mp4` (Marcus mobilklipp), med bara ekorren utstansad och färgerna justerade för 3D-scenen. |
 
 ## Hjälp från personer och AI-sessioner
 
